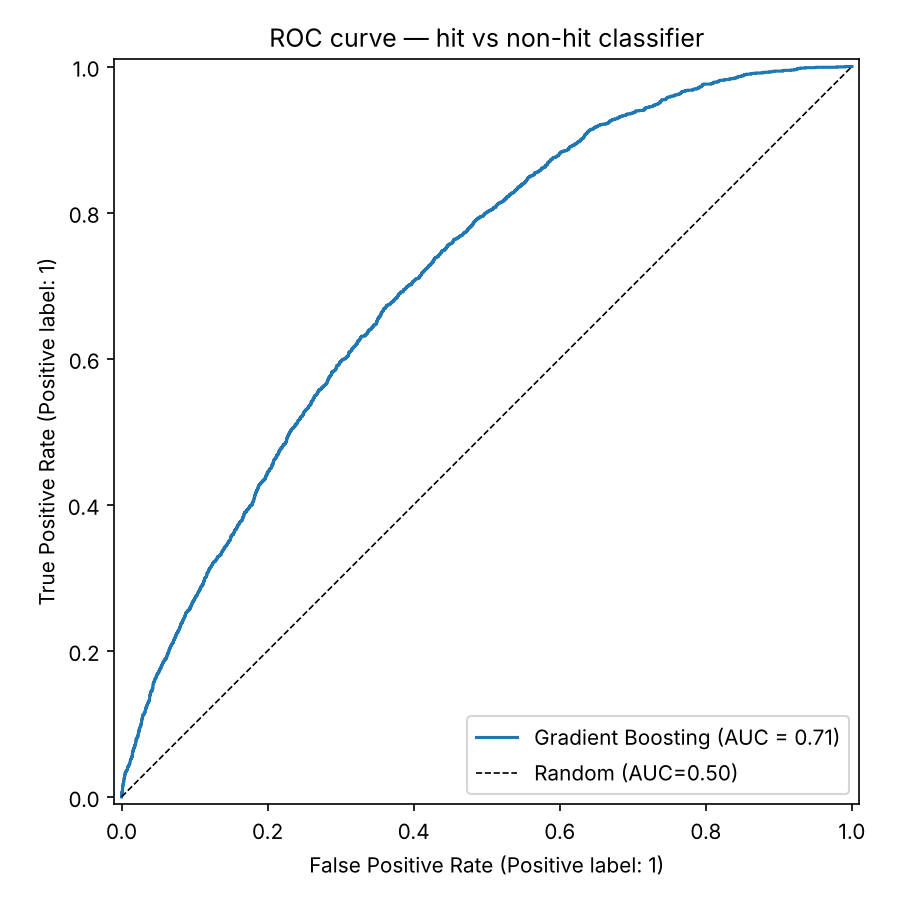
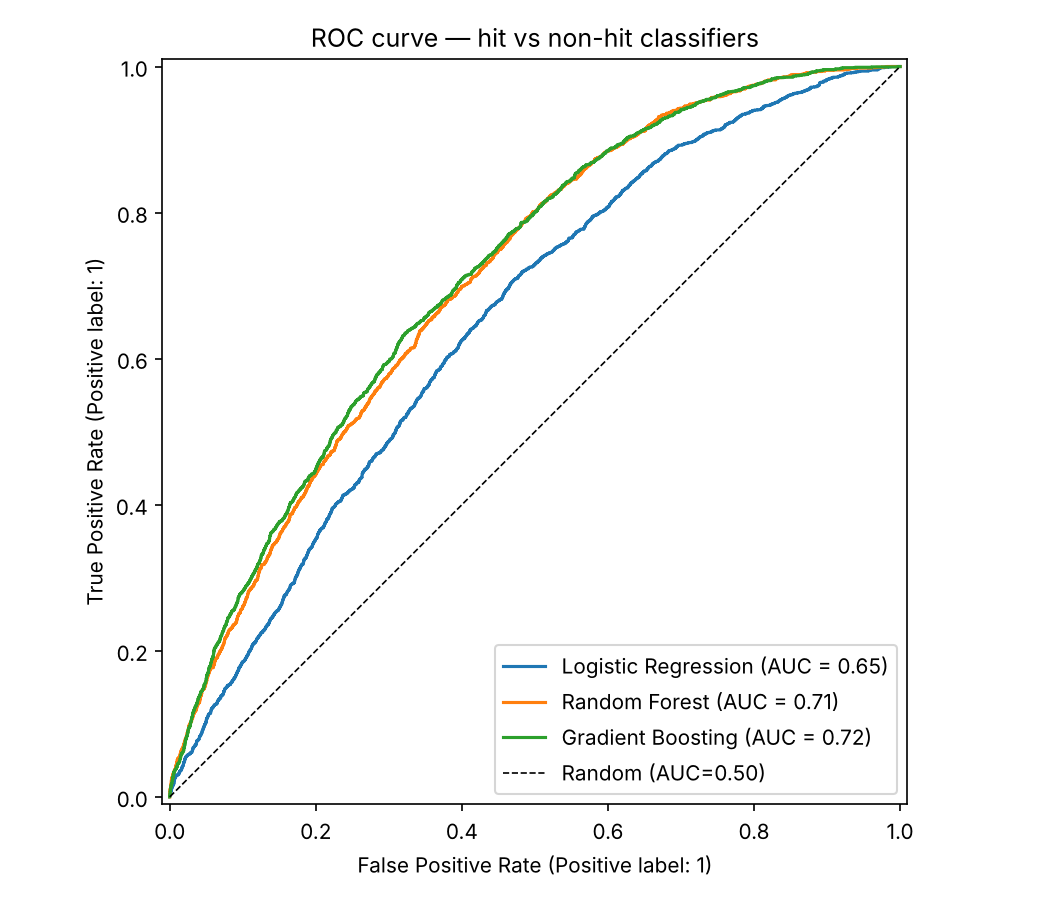
Updated my files

diff --git a/code/02_models.py b/code/02_models.py
@@ -9,17 +9,19 @@ import pandas as pd
 import matplotlib
 matplotlib.use("Agg")
 import matplotlib.pyplot as plt
+import seaborn as sns
 
 from sklearn.model_selection import GroupKFold
 from sklearn.preprocessing import StandardScaler
-from sklearn.linear_model import LinearRegression, Ridge, Lasso
+from sklearn.utils.class_weight import compute_sample_weight
+from sklearn.linear_model import LinearRegression, Ridge, Lasso, LogisticRegression
 from sklearn.ensemble import (RandomForestRegressor, GradientBoostingRegressor,
                                RandomForestClassifier, GradientBoostingClassifier)
 from sklearn.dummy import DummyRegressor, DummyClassifier
 from sklearn.metrics import (
     mean_squared_error, r2_score,
     accuracy_score, f1_score, roc_auc_score,
-    classification_report, RocCurveDisplay,
+    classification_report, confusion_matrix, RocCurveDisplay,
 )
 
 DATA = "data"
@@ -53,7 +55,7 @@ y_reg_train, y_reg_test = y_reg[train_idx], y_reg[test_idx]
 y_clf_train, y_clf_test = y_clf[train_idx], y_clf[test_idx]
 groups_train = groups[train_idx]
 
-# standardize (fit on train only — per Tejashree's note)
+# standardize (fit on train only — per Tejashree's note, no leakage)
 scaler = StandardScaler()
 X_train_s = scaler.fit_transform(X_train)
 X_test_s  = scaler.transform(X_test)
@@ -78,30 +80,43 @@ def cv_reg(name, model):
     print(f"  {name:28s}  CV-RMSE={cv_rmse:.3f}  CV-R2={cv_r2:.4f}  |  Test-RMSE={t_rmse:.3f}  Test-R2={t_r2:.4f}")
     return {"CV_RMSE": cv_rmse, "CV_R2": cv_r2, "Test_RMSE": t_rmse, "Test_R2": t_r2, "pred": pt}
 
-def cv_clf(name, model):
+def cv_clf(name, model, use_sample_weight=False):
+    """Run 5-fold grouped CV for a classifier.
+    use_sample_weight: pass balanced sample weights during fit
+    (needed for GradientBoosting which lacks class_weight param).
+    """
     accs, f1s, aucs = [], [], []
     for tr, va in cv_inner.split(X_train_s, y_clf_train, groups_train):
         m = model.__class__(**model.get_params())
-        m.fit(X_train_s[tr], y_clf_train[tr])
+        if use_sample_weight:
+            sw = compute_sample_weight("balanced", y_clf_train[tr])
+            m.fit(X_train_s[tr], y_clf_train[tr], sample_weight=sw)
+        else:
+            m.fit(X_train_s[tr], y_clf_train[tr])
         p = m.predict(X_train_s[va])
         pr = m.predict_proba(X_train_s[va])[:, 1] if hasattr(m, "predict_proba") else np.zeros(len(p))
         accs.append(accuracy_score(y_clf_train[va], p))
         f1s.append(f1_score(y_clf_train[va], p, zero_division=0))
         aucs.append(roc_auc_score(y_clf_train[va], pr) if pr.any() else 0.5)
-    model.fit(X_train_s, y_clf_train)
+    # final fit on full training set
+    if use_sample_weight:
+        sw_full = compute_sample_weight("balanced", y_clf_train)
+        model.fit(X_train_s, y_clf_train, sample_weight=sw_full)
+    else:
+        model.fit(X_train_s, y_clf_train)
     pt = model.predict(X_test_s)
     prt = model.predict_proba(X_test_s)[:, 1] if hasattr(model, "predict_proba") else np.zeros(len(pt))
     cv_acc, cv_f1, cv_auc = np.mean(accs), np.mean(f1s), np.mean(aucs)
     t_acc = accuracy_score(y_clf_test, pt)
     t_f1  = f1_score(y_clf_test, pt, zero_division=0)
     t_auc = roc_auc_score(y_clf_test, prt) if prt.any() else 0.5
-    print(f"  {name:28s}  CV-AUC={cv_auc:.4f}  CV-F1={cv_f1:.4f}  |  Test-AUC={t_auc:.4f}  Test-F1={t_f1:.4f}")
+    print(f"  {name:28s}  CV-AUC={cv_auc:.4f}  CV-F1={cv_f1:.4f}  |  Test-AUC={t_auc:.4f}  Test-F1={t_f1:.4f}  Test-Acc={t_acc:.4f}")
     return {"CV_Acc": cv_acc, "CV_F1": cv_f1, "CV_AUC": cv_auc,
             "Test_Acc": t_acc, "Test_F1": t_f1, "Test_AUC": t_auc, "pred": pt, "prob": prt}
 
 
 # =====================================================================
-#  REGRESSION
+#  PART A — REGRESSION: predict popularity score
 # =====================================================================
 print("\n" + "="*60)
 print("REGRESSION: predict popularity (continuous)")
@@ -124,32 +139,36 @@ for name, model in reg_specs:
     reg_results[name] = cv_reg(name, model)
     print(f"    ({time.time()-t0:.1f}s)")
 
-# pick best non-baseline
 best_reg_name = max([k for k in reg_results if k != "Mean Baseline"],
                     key=lambda k: reg_results[k]["Test_R2"])
 
+
 # =====================================================================
-#  CLASSIFICATION
+#  PART B — CLASSIFICATION: hit (>= 60) vs non-hit
 # =====================================================================
 print("\n" + "="*60)
 print("CLASSIFICATION: hit (popularity >= 60) vs non-hit")
 print("="*60)
 
+# Note: GradientBoostingClassifier does not accept class_weight,
+# so we pass balanced sample_weight during fit instead.
 clf_specs = [
-    ("Majority Baseline", DummyClassifier(strategy="most_frequent")),
-    ("Random Forest",     RandomForestClassifier(n_estimators=50, max_depth=10,
-                                                 min_samples_leaf=30,
-                                                 class_weight="balanced",
-                                                 random_state=42, n_jobs=-1)),
-    ("Gradient Boosting", GradientBoostingClassifier(n_estimators=100, max_depth=4,
-                                                     learning_rate=0.1,
-                                                     subsample=0.8, random_state=42)),
+    ("Majority Baseline",   DummyClassifier(strategy="most_frequent"), False),
+    ("Logistic Regression", LogisticRegression(class_weight="balanced", max_iter=1000,
+                                               random_state=42), False),
+    ("Random Forest",       RandomForestClassifier(n_estimators=50, max_depth=10,
+                                                   min_samples_leaf=30,
+                                                   class_weight="balanced",
+                                                   random_state=42, n_jobs=-1), False),
+    ("Gradient Boosting",   GradientBoostingClassifier(n_estimators=100, max_depth=4,
+                                                       learning_rate=0.1,
+                                                       subsample=0.8, random_state=42), True),
 ]
 
 clf_results = {}
-for name, model in clf_specs:
+for name, model, sw in clf_specs:
     t0 = time.time()
-    clf_results[name] = cv_clf(name, model)
+    clf_results[name] = cv_clf(name, model, use_sample_weight=sw)
     print(f"    ({time.time()-t0:.1f}s)")
 
 best_clf_name = max([k for k in clf_results if k != "Majority Baseline"],
@@ -160,13 +179,17 @@ print(classification_report(y_clf_test, clf_results[best_clf_name]["pred"],
                             target_names=["Non-hit", "Hit"]))
 
 # refit best models to extract feature importances
-for name, model in reg_specs:
+for name, model, *_ in reg_specs:
     if name == best_reg_name:
         model.fit(X_train_s, y_reg_train)
         best_reg_model = model
-for name, model in clf_specs:
+for name, model, sw in clf_specs:
     if name == best_clf_name:
-        model.fit(X_train_s, y_clf_train)
+        if sw:
+            sw_full = compute_sample_weight("balanced", y_clf_train)
+            model.fit(X_train_s, y_clf_train, sample_weight=sw_full)
+        else:
+            model.fit(X_train_s, y_clf_train)
         best_clf_model = model
 
 
@@ -174,7 +197,7 @@ for name, model in clf_specs:
 #  FIGURES
 # =====================================================================
 
-# Fig 4: Regression comparison
+# ─── Fig 4: Regression comparison ────────────────────────────────────
 fig, axes = plt.subplots(1, 2, figsize=(12, 5))
 names_r = list(reg_results.keys())
 rmses = [reg_results[n]["Test_RMSE"] for n in names_r]
@@ -193,7 +216,7 @@ plt.savefig(os.path.join(FIG, "fig4_regression_comparison.png"), dpi=150)
 plt.close()
 print("Saved fig4_regression_comparison.png")
 
-# Fig 5: Feature importance (regression)
+# ─── Fig 5: Feature importance (regression) ──────────────────────────
 if hasattr(best_reg_model, "feature_importances_"):
     imp = best_reg_model.feature_importances_; imp_label = "Gini importance"
 elif hasattr(best_reg_model, "coef_"):
@@ -210,7 +233,7 @@ plt.savefig(os.path.join(FIG, "fig5_feature_importance_regression.png"), dpi=150
 plt.close()
 print("Saved fig5_feature_importance_regression.png")
 
-# Fig 6: Feature importance (classifier)
+# ─── Fig 6: Feature importance (classifier) ──────────────────────────
 if hasattr(best_clf_model, "feature_importances_"):
     imp_c = best_clf_model.feature_importances_; imp_c_label = "Gini importance"
 elif hasattr(best_clf_model, "coef_"):
@@ -227,19 +250,23 @@ plt.savefig(os.path.join(FIG, "fig6_feature_importance_classifier.png"), dpi=150
 plt.close()
 print("Saved fig6_feature_importance_classifier.png")
 
-# Fig 7: ROC curve
+# ─── Fig 7: ROC curve (all classifiers) ──────────────────────────────
 fig, ax = plt.subplots(figsize=(6, 6))
-RocCurveDisplay.from_predictions(y_clf_test, clf_results[best_clf_name]["prob"],
-                                 ax=ax, name=best_clf_name)
+for cname in clf_results:
+    if cname == "Majority Baseline":
+        continue
+    RocCurveDisplay.from_predictions(
+        y_clf_test, clf_results[cname]["prob"], ax=ax, name=cname
+    )
 ax.plot([0, 1], [0, 1], "k--", linewidth=0.8, label="Random (AUC=0.50)")
-ax.set_title("ROC curve — hit vs non-hit classifier")
+ax.set_title("ROC curve — hit vs non-hit classifiers")
 ax.legend(loc="lower right")
 plt.tight_layout()
 plt.savefig(os.path.join(FIG, "fig7_roc_curve.png"), dpi=150)
 plt.close()
 print("Saved fig7_roc_curve.png")
 
-# Fig 8: Actual vs predicted scatter
+# ─── Fig 8: Actual vs predicted scatter (regression) ─────────────────
 fig, ax = plt.subplots(figsize=(6, 6))
 ax.scatter(y_reg_test, reg_results[best_reg_name]["pred"], s=3, alpha=0.15, color="steelblue")
 ax.plot([0, 100], [0, 100], "r--", linewidth=1, label="Perfect prediction")
@@ -252,7 +279,22 @@ plt.savefig(os.path.join(FIG, "fig8_actual_vs_predicted.png"), dpi=150)
 plt.close()
 print("Saved fig8_actual_vs_predicted.png")
 
-# ─── Summary ─────────────────────────────────────────────────────────
+# ─── Fig 9: Confusion matrix (best classifier) ──────────────────────
+cm = confusion_matrix(y_clf_test, clf_results[best_clf_name]["pred"])
+fig, ax = plt.subplots(figsize=(6, 5))
+sns.heatmap(cm, annot=True, fmt="d", cmap="Blues",
+            xticklabels=["Non-hit", "Hit"],
+            yticklabels=["Non-hit", "Hit"], ax=ax)
+ax.set_xlabel("Predicted label")
+ax.set_ylabel("True label")
+ax.set_title(f"Confusion matrix — {best_clf_name}")
+plt.tight_layout()
+plt.savefig(os.path.join(FIG, "fig9_confusion_matrix.png"), dpi=150)
+plt.close()
+print("Saved fig9_confusion_matrix.png")
+
+
+# ─── Summary tables ──────────────────────────────────────────────────
 print("\n" + "="*60)
 print("SUMMARY TABLES FOR REPORT")
 print("="*60)
